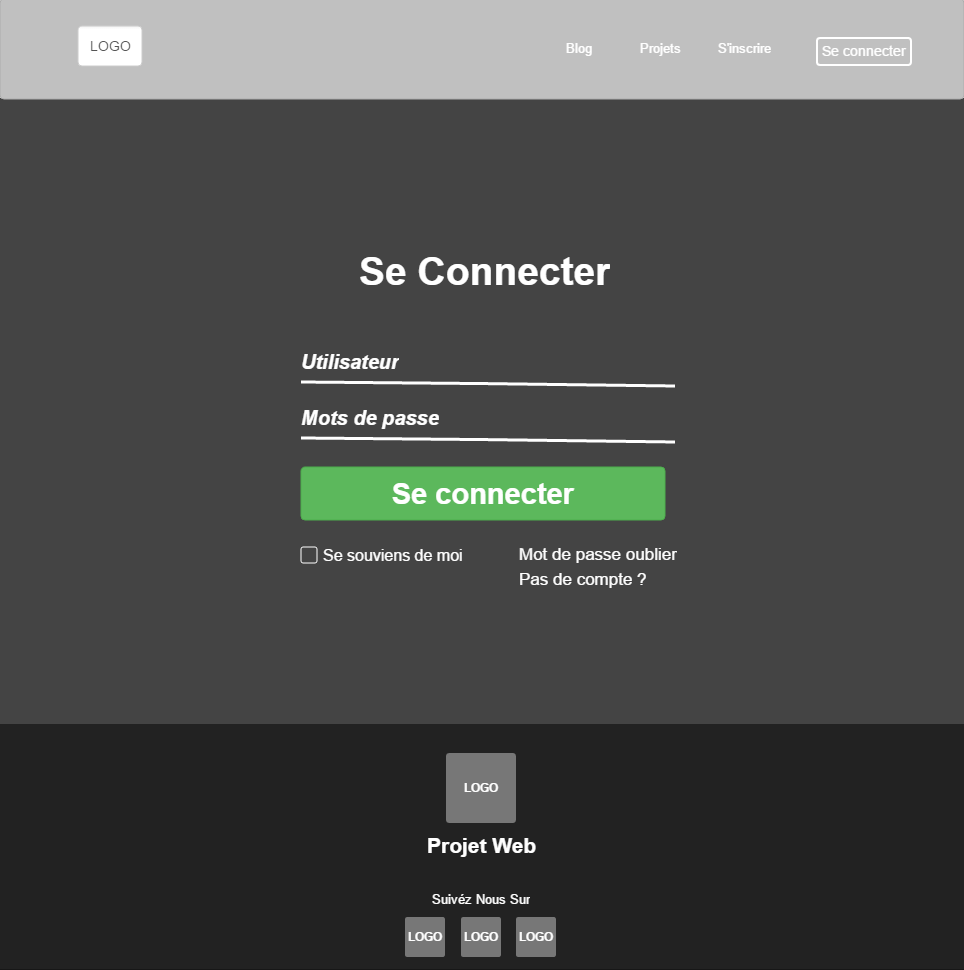
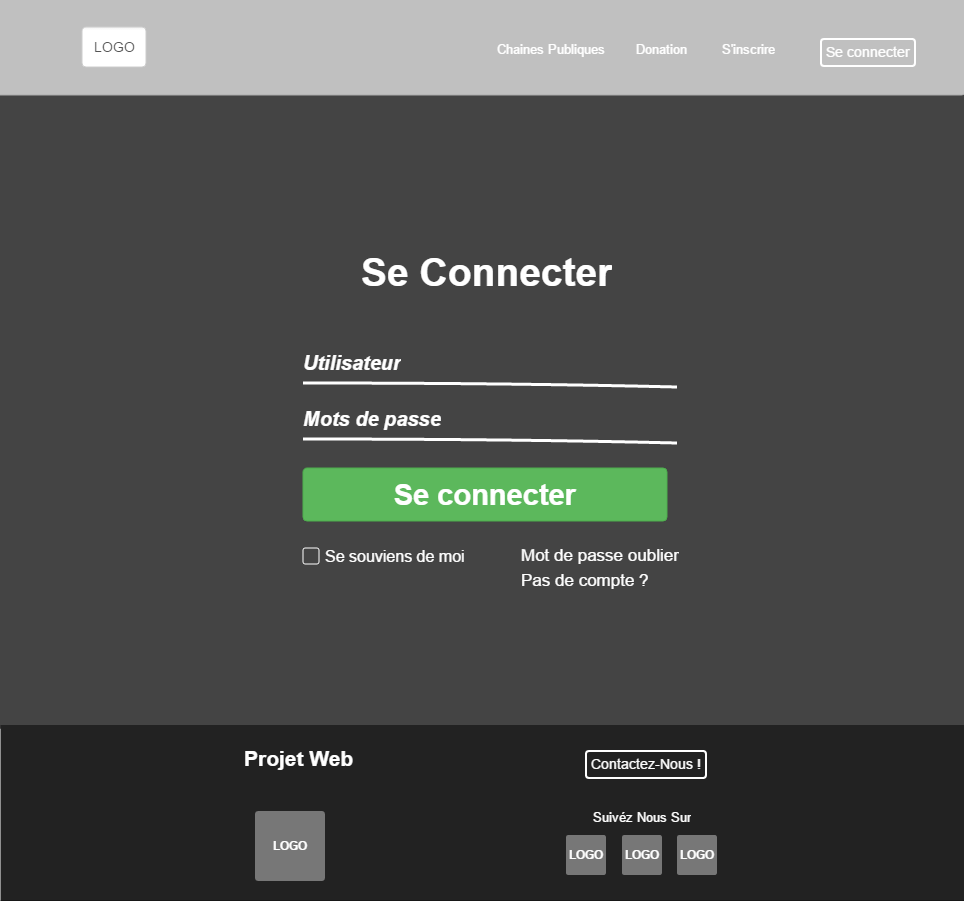
Add files via upload

diff --git a/index.html b/index.html
@@ -1,2 +1,2 @@
 <html xmlns="http://www.w3.org/1999/xhtml" xmlns:p="http://www.evolus.vn/Namespace/Pencil" xmlns:html="http://www.w3.org/1999/xhtml"><head><meta http-equiv="Content-Type" content="text/html; charset=UTF-8" />
-<title>Untitled</title><link rel="stylesheet" href="Resources/SampleStyle.css" /></head><body><h1 id="documentTitle">Untitled</h1><p id="documentMetadata">Exported at: Sat Aug 04 2018 23:33:32 GMT+1100 (Pacifique Centre)</p><div class="Page" id="home_page"><h2>Home</h2><div class="ImageContainer"><img src="pages\home.png" width="964" height="1890" usemap="#map_home" /></div><map name="map_home"><area shape="rect" coords="720,40,773,58" href="#inscription_page" title="Go to page 'Inscription'" /><area shape="rect" coords="818,37,914,66" href="#conexion_page" title="Go to page 'Conexion'" /><area shape="rect" coords="327,347,633,653" href="#inscription_page" title="Go to page 'Inscription'" /></map></div><div class="Page" id="conexion_page"><h2>Conexion</h2><div class="ImageContainer"><img src="pages\conexion.png" width="964" height="970" usemap="#map_conexion" /></div><map name="map_conexion"><area shape="rect" coords="519,568,647,592" href="#inscription_page" title="Go to page 'Inscription'" /><area shape="rect" coords="446,753,516,823" href="#home_page" title="Go to page 'Home'" /><area shape="rect" coords="519,543,677,567" href="#inscription_page" title="Go to page 'Inscription'" /><area shape="rect" coords="301,467,665,520" href="#userinterface_page" title="Go to page 'UserInterface'" /><area shape="rect" coords="718,40,771,58" href="#inscription_page" title="Go to page 'Inscription'" /><area shape="rect" coords="78,26,142,66" href="#home_page" title="Go to page 'Home'" /></map></div><div class="Page" id="inscription_page"><h2>Inscription</h2><div class="ImageContainer"><img src="pages\inscription.png" width="964" height="970" usemap="#map_inscription" /></div><map name="map_inscription"><area shape="rect" coords="301,605,626,629" href="#conexion_page" title="Go to page 'Conexion'" /><area shape="rect" coords="446,753,516,823" href="#home_page" title="Go to page 'Home'" /><area shape="rect" coords="301,526,665,579" href="#userinterface_page" title="Go to page 'UserInterface'" /><area shape="rect" coords="816,37,912,66" href="#conexion_page" title="Go to page 'Conexion'" /><area shape="rect" coords="78,26,142,66" href="#home_page" title="Go to page 'Home'" /></map></div><div class="Page" id="userinterface_page"><h2>UserInterface</h2><div class="ImageContainer"><img src="pages\userinterface.png" width="964" height="1402" usemap="#map_userinterface" /></div><map name="map_userinterface"><area shape="rect" coords="20,102,149,130" href="#home_page" title="Go to page 'Home'" /><area shape="rect" coords="446,1183,516,1253" href="#home_page" title="Go to page 'Home'" /></map></div></body></html>
+<title>PROTOTYPE</title><link rel="stylesheet" href="Resources/SampleStyle.css" /></head><body><h1 id="documentTitle">PROTOTYPE</h1><p id="documentMetadata">Exported at: Mon Aug 06 2018 18:09:06 GMT+1100 (Pacifique Centre)</p><div class="Page" id="home_page"><h2>Home</h2><div class="ImageContainer"><img src="pages\home.png" width="964" height="1830" usemap="#map_home" /></div><map name="map_home"><area shape="rect" coords="583,1681,705,1710" href="#conexion_page" title="Go to page 'Conexion'" /><area shape="rect" coords="495,40,603,58" href="#chaines_publiques_page" title="Go to page 'Chaines Publiques'" /><area shape="rect" coords="720,40,773,58" href="#inscription_page" title="Go to page 'Inscription'" /><area shape="rect" coords="818,37,914,66" href="#conexion_page" title="Go to page 'Conexion'" /><area shape="rect" coords="327,347,633,653" href="#inscription_page" title="Go to page 'Inscription'" /></map></div><div class="Page" id="conexion_page"><h2>Conexion</h2><div class="ImageContainer"><img src="pages\conexion.png" width="964" height="901" usemap="#map_conexion" /></div><map name="map_conexion"><area shape="rect" coords="585,750,707,779" href="#conexion_page" title="Go to page 'Conexion'" /><area shape="rect" coords="820,38,916,67" href="#conexion_page" title="Go to page 'Conexion'" /><area shape="rect" coords="722,41,775,59" href="#inscription_page" title="Go to page 'Inscription'" /><area shape="rect" coords="497,41,605,59" href="#chaines_publiques_page" title="Go to page 'Chaines Publiques'" /><area shape="rect" coords="521,569,649,593" href="#inscription_page" title="Go to page 'Inscription'" /><area shape="rect" coords="521,544,679,568" href="#inscription_page" title="Go to page 'Inscription'" /><area shape="rect" coords="303,468,667,521" href="#chaine_page" title="Go to page 'Chaine'" /></map></div><div class="Page" id="inscription_page"><h2>Inscription</h2><div class="ImageContainer"><img src="pages\inscription.png" width="964" height="900" usemap="#map_inscription" /></div><map name="map_inscription"><area shape="rect" coords="585,750,707,779" href="#conexion_page" title="Go to page 'Conexion'" /><area shape="rect" coords="818,37,914,66" href="#conexion_page" title="Go to page 'Conexion'" /><area shape="rect" coords="720,40,773,58" href="#inscription_page" title="Go to page 'Inscription'" /><area shape="rect" coords="495,40,603,58" href="#chaines_publiques_page" title="Go to page 'Chaines Publiques'" /><area shape="rect" coords="301,605,626,629" href="#conexion_page" title="Go to page 'Conexion'" /><area shape="rect" coords="301,526,665,579" href="#chaine_page" title="Go to page 'Chaine'" /></map></div><div class="Page" id="chaine_page"><h2>Chaine</h2><div class="ImageContainer"><img src="pages\chaine.png" width="964" height="1470" usemap="#map_chaine" /></div><map name="map_chaine"><area shape="rect" coords="598,90,716,114" href="#chaines_publiques_page" title="Go to page 'Chaines Publiques'" /><area shape="rect" coords="598,65,716,89" href="#mes_chaines_page" title="Go to page 'Mes Chaines'" /><area shape="rect" coords="818,37,930,66" href="#conexion_page" title="Go to page 'Conexion'" /><area shape="rect" coords="583,1321,705,1350" href="#conexion_page" title="Go to page 'Conexion'" /><area shape="rect" coords="583,1681,705,1710" href="#conexion_page" title="Go to page 'Conexion'" /></map></div><div class="Page" id="mes_chaines_page"><h2>Mes Chaines</h2><div class="ImageContainer"><img src="pages\mes_chaines.png" width="964" height="1325" usemap="#map_mes_chaines" /></div><map name="map_mes_chaines"><area shape="rect" coords="583,1181,705,1210" href="#conexion_page" title="Go to page 'Conexion'" /><area shape="rect" coords="598,90,716,114" href="#chaines_publiques_page" title="Go to page 'Chaines Publiques'" /><area shape="rect" coords="818,37,930,66" href="#conexion_page" title="Go to page 'Conexion'" /></map></div><div class="Page" id="chaines_publiques_page"><h2>Chaines Publiques</h2><div class="ImageContainer"><img src="pages\chaines_publiques.png" width="964" height="1210" usemap="#map_chaines_publiques" /></div><map name="map_chaines_publiques"><area shape="rect" coords="583,1061,705,1090" href="#conexion_page" title="Go to page 'Conexion'" /><area shape="rect" coords="598,65,716,89" href="#mes_chaines_page" title="Go to page 'Mes Chaines'" /><area shape="rect" coords="818,37,930,66" href="#conexion_page" title="Go to page 'Conexion'" /></map></div></body></html>
